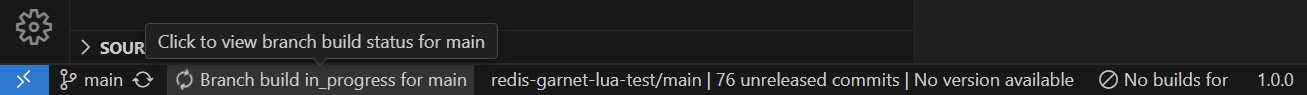
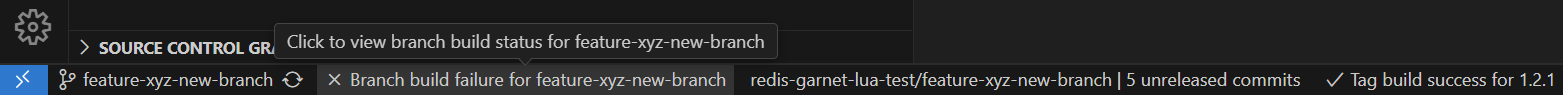
add shields badges to readme and update screenshots

diff --git a/README.md b/README.md
@@ -1,4 +1,4 @@
-# Git Tag Release Tracker
+# Git Tag Release Tracker [![Visual Studio Marketplace](https://img.shields.io/visual-studio-marketplace/v/DanielChristianSchroeter.git-tag-release-tracker?style=flat&label=Visual%20Studio%20Marketplace) [![Visual Studio Marketplace Installs](https://img.shields.io/visual-studio-marketplace/i/DanielChristianSchroeter.git-tag-release-tracker?style=flat&label=Visual%20Studio%20Marketplace%20Installs&logo=visual-studio-code)](https://marketplace.visualstudio.com/items?itemName=DanielChristianSchroeter.git-tag-release-tracker) [![OpenVSX Registry Downloads](https://img.shields.io/open-vsx/dt/DanielChristianSchroeter/git-tag-release-tracker?style=flat&label=OpenVSX%20Downloads)](https://open-vsx.org/extension/DanielChristianSchroeter/git-tag-release-tracker)
 
 The **Git Tag Release Tracker** extension for Visual Studio Code allows you to manage and track your Git tags and releases directly within Visual Studio Code. Easily increment your Major, Minor, or Patch semantic versioning with a single click in the status bar. This extension now supports both GitHub Actions and GitLab CI/CD pipelines with automatic detection.
 
@@ -17,33 +17,39 @@ The **Git Tag Release Tracker** extension for Visual Studio Code allows you to m
 ### Screenshots
 
 <p align="center">
-<img src="images/status-bar-create-and-push-initial-version-tag.png" alt="Create Initial Version Tag" width=80%>
+<img src="images/status-bar-create-and-push-initial-version-tag.png" alt="Create Initial Version Tag" width=95%>
 <br/>
-<em>Easily create an initial version tag (1.0.0) if no tags are present.</em>
+<em>Create initial version tag (1.0.0) when no tags exist</em>
 </p>
 
 <p align="center">
-<img src="images/status-bar-create-and-push-new-version.png" alt="Increment Version" width=80%>
+<img src="images/status-bar-create-and-push-new-version-keep-prefix-and-stuffix.png" alt="Preserve Prefix and Suffix" width=95%>
 <br/>
-<em>Increase Major, Minor or Patch Version with just a single click.</em>
+<em>Preserve existing prefixes and suffixes in version tags</em>
 </p>
 
 <p align="center">
-<img src="images/status-bar-create-and-push-new-version-keep-prefix-and-stuffix.png" alt="Preserve Prefix and Suffix" width=80%>
+<img src="images/status-bar-create-and-push-new-version.png" alt="Increment Version" width=95%>
 <br/>
-<em>Maintain existing prefixes and suffixes in the version tag structure.</em>
+<em>Increment Major, Minor, or Patch version with a single click</em>
 </p>
 
 <p align="center">
-<img src="images/status-bar-show-github-workflow-gitlab-pipeline-build-status-for-tag.png" alt="Workflow/Pipeline build status for tag" width=80%>
+<img src="images/status-bar-show-current-github-or-gitlab-build-status.png" alt="Current Branch Build Status" width=95%>
 <br/>
-<em>Get current build status for Github Action Workflows or GitLab Pipelines for tag.</em>
+<em>View current branch build status in VS Code status bar</em>
 </p>
 
 <p align="center">
-<img src="images/status-bar-show-github-workflow-gitlab-pipeline-build-status-for-branch.png" alt="Workflow/Pipeline build status for branch" width=80%>
+<img src="images/status-bar-show-github-workflow-gitlab-pipeline-build-status-for-branch.png" alt="Workflow/Pipeline Build Status for Branch" width=95%>
 <br/>
-<em>Get current build status for Github Action Workflows or GitLab Pipelines for branch.</em>
+<em>Display GitHub Actions or GitLab Pipeline CI/CD build status for current branch</em>
+</p>
+
+<p align="center">
+<img src="images/status-bar-show-github-workflow-gitlab-pipeline-build-status-for-tag.png" alt="Workflow/Pipeline Build Status for Tag" width=95%>
+<br/>
+<em>Show GitHub Actions or GitLab Pipeline CI/CD build status for tags</em>
 </p>
 
 ## Requirements
